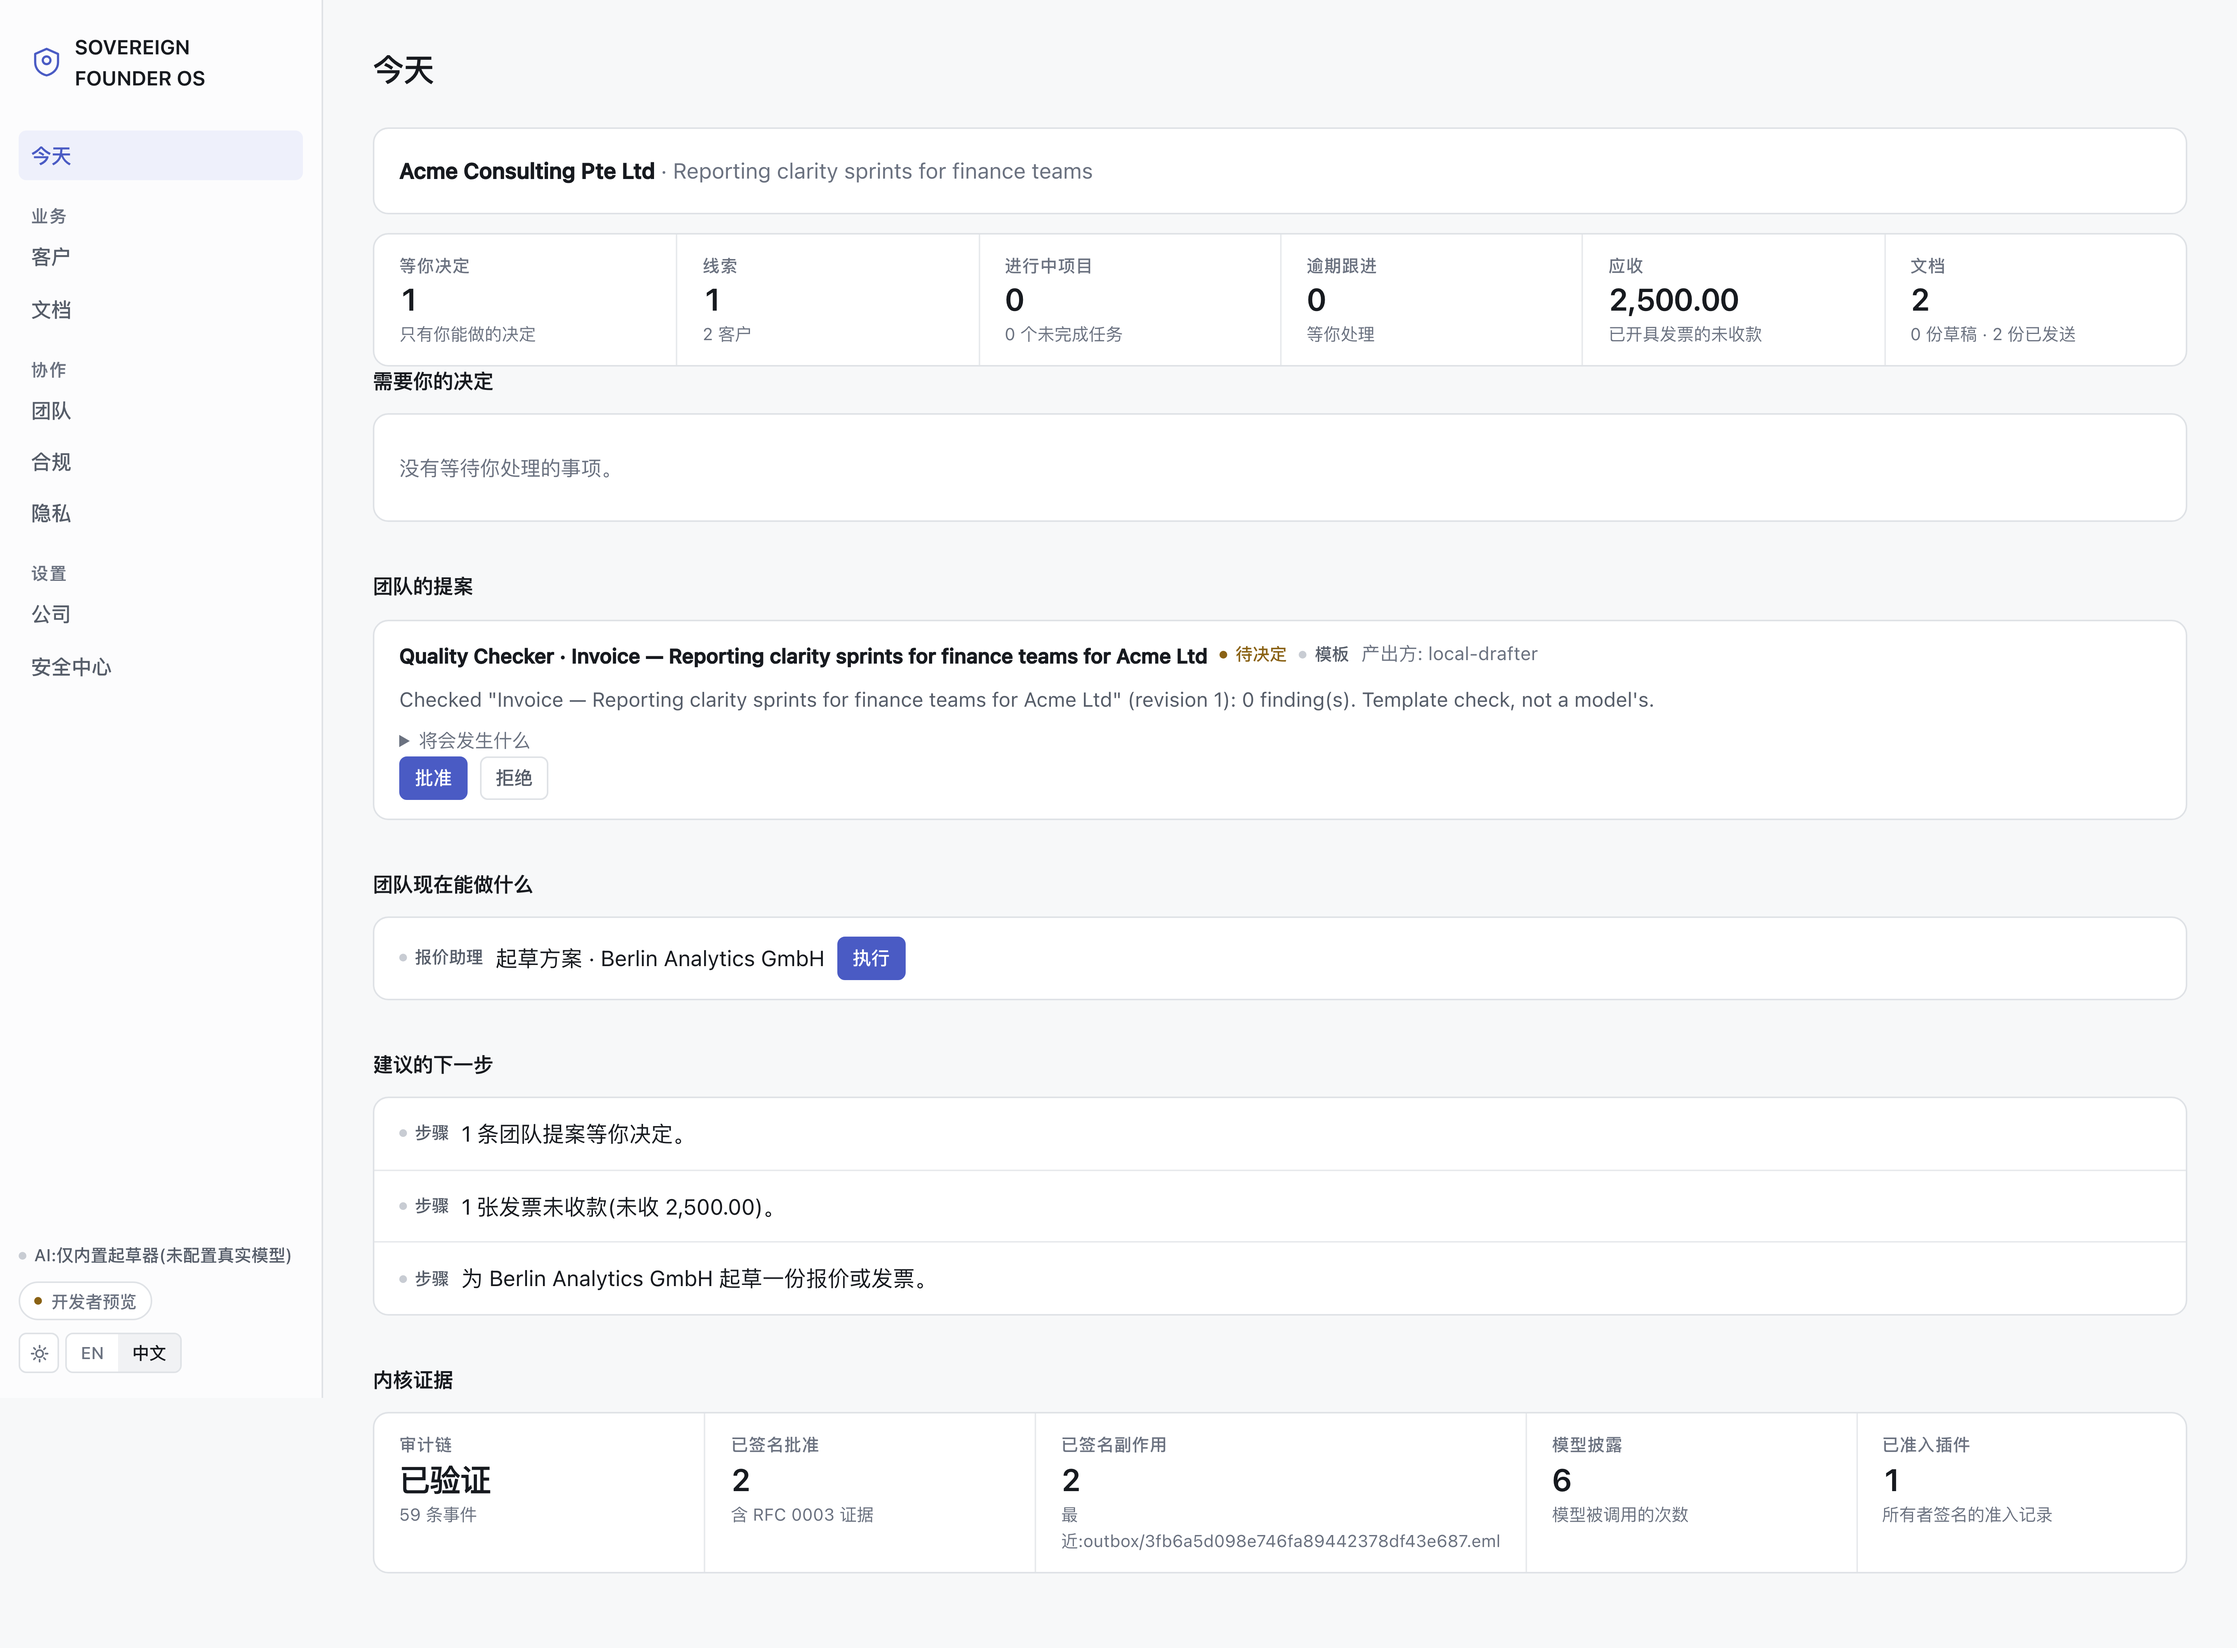
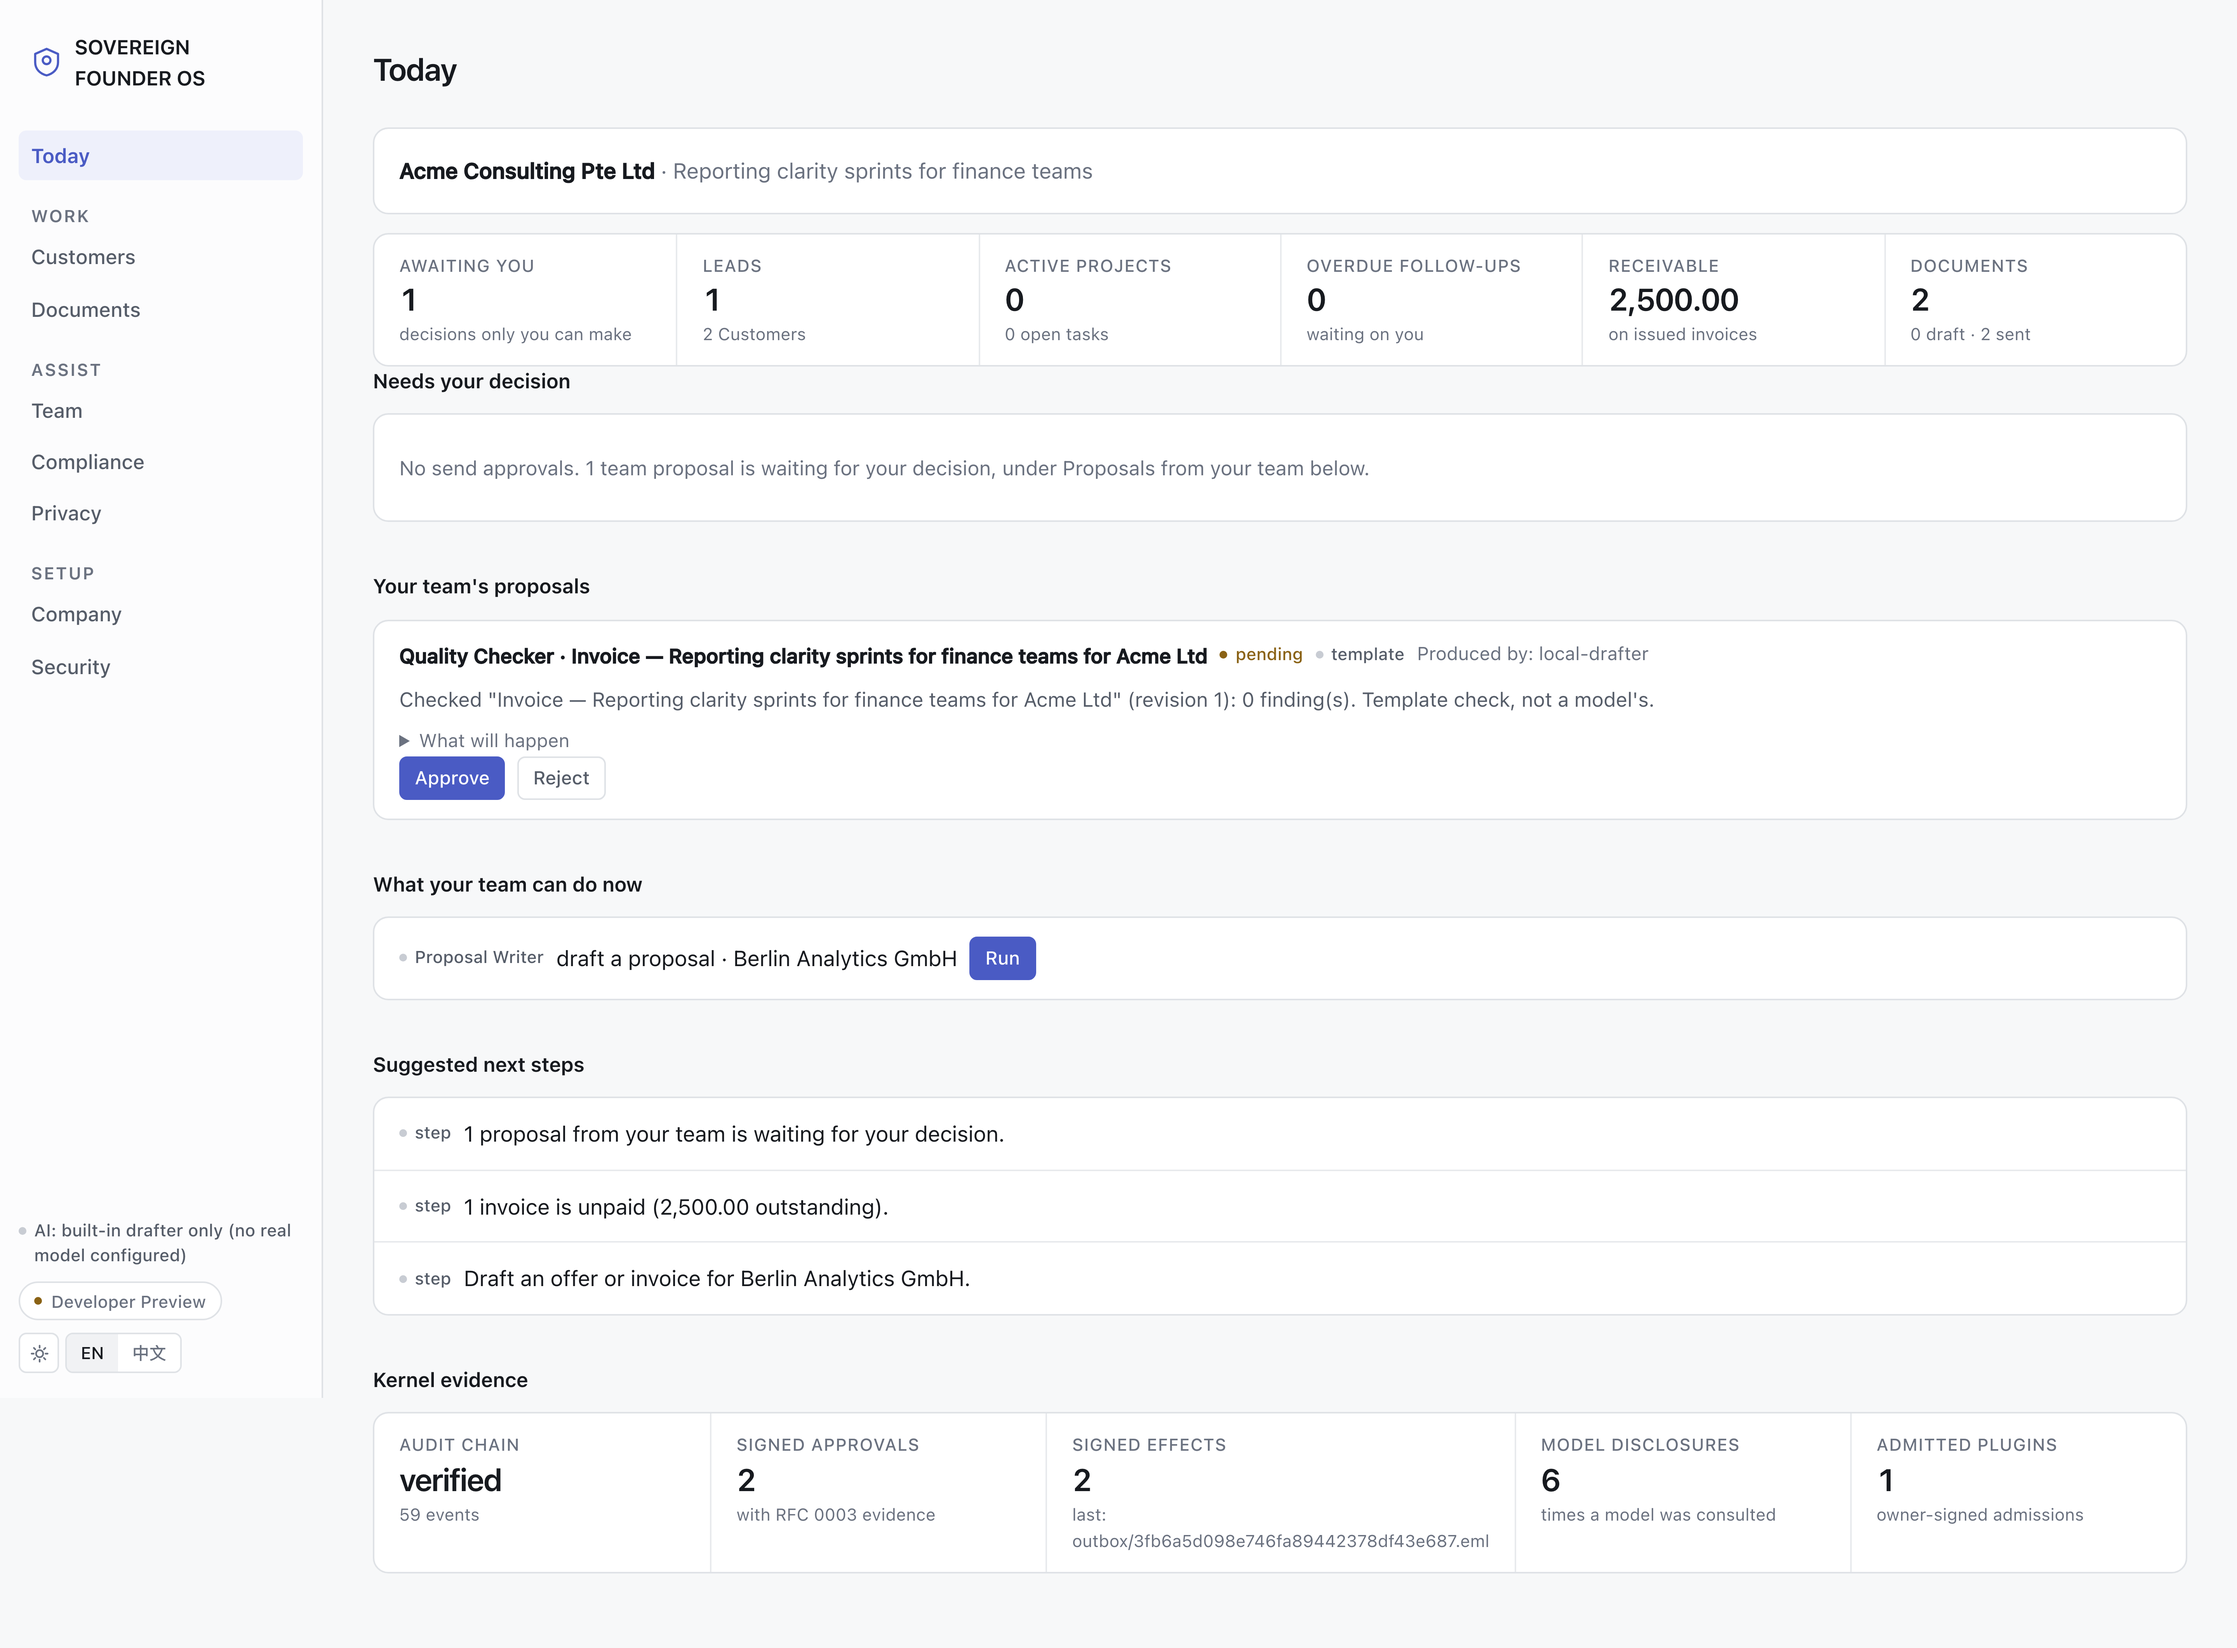
fix(ui): stop the Today view contradicting its own count
The "Awaiting you" tile counts send approvals and team proposals together.
The section directly beneath it, "Needs your decision", is fed only by send
approvals. With one proposal pending and no approvals — the ordinary state
after an employee runs — the tile read 1 while the box under it said
"Nothing is waiting on you."

Both were describing real state; only the sentence was wrong, and it was wrong
in the direction that matters, telling a founder there is nothing to do while
a decision waits. The empty state now distinguishes the two cases: with no
proposals it still says nothing is waiting, and with proposals it says how
many and where they are.

Found by using the app, not by a test. The README screenshot is retaken
against the fixed build.

diff --git a/apps/cli/assets/i18n.js b/apps/cli/assets/i18n.js
@@ -27,6 +27,9 @@ const STRINGS = {
     }[g.kind] || g.kind),
     cc_decisions_title: "Needs your decision",
     cc_no_decisions: "Nothing is waiting on you.",
+    cc_only_proposals: (n) =>
+      "No send approvals. " + n + (n === 1 ? " team proposal is" : " team proposals are") +
+      " waiting for your decision, under Proposals from your team below.",
     cc_decision_line: (d) => d.action + " · " + (d.customer_name || "—") + " · " + d.document_title,
     cc_evidence_title: "Kernel evidence",
     cc_evidence_note: "Every number below is re-derivable from your export. This view only reports what the kernel already proved — it makes no new claim and writes nothing.",
@@ -157,6 +160,9 @@ const STRINGS = {
     }[g.kind] || g.kind),
     cc_decisions_title: "需要你的决定",
     cc_no_decisions: "没有等待你处理的事项。",
+    cc_only_proposals: (n) =>
+      "没有待处理的发送批准。有 " + n +
+      " 条团队提案等你决定，见下方的“团队的提案”。",
     cc_decision_line: (d) => d.action + " · " + (d.customer_name || "—") + " · " + d.document_title,
     cc_evidence_title: "内核证据",
     cc_evidence_note: "下方每个数字都可从你的导出文件中重新验证。此视图只报告内核已证明的事实 —— 不作任何新声明,也不写入任何内容。",

diff --git a/apps/cli/assets/app.js b/apps/cli/assets/app.js
@@ -406,7 +406,7 @@ function renderCommandCenter() {
   $("cc-plugins").textContent = k.admitted_plugins;
 
   renderCommandGuidance(s.guidance);
-  renderCommandDecisions(s.pending_decisions);
+  renderCommandDecisions(s.pending_decisions, s.counts.proposals_pending);
 }
 
 function renderCommandGuidance(items) {
@@ -428,11 +428,16 @@ function renderCommandGuidance(items) {
   }));
 }
 
-function renderCommandDecisions(decisions) {
+function renderCommandDecisions(decisions, proposalsPending) {
   const box = $("cc-decisions");
   if (!decisions.length) {
     box.className = "empty";
-    box.replaceChildren(document.createTextNode(t("cc_no_decisions")));
+    // The tile above counts send approvals and team proposals together, but
+    // this section only lists send approvals. Saying "nothing is waiting"
+    // while a proposal waits contradicts the number directly above it, so
+    // when that is the case, name what is waiting and where it is.
+    box.replaceChildren(document.createTextNode(
+      proposalsPending ? t("cc_only_proposals")(proposalsPending) : t("cc_no_decisions")));
     return;
   }
   box.className = "";
